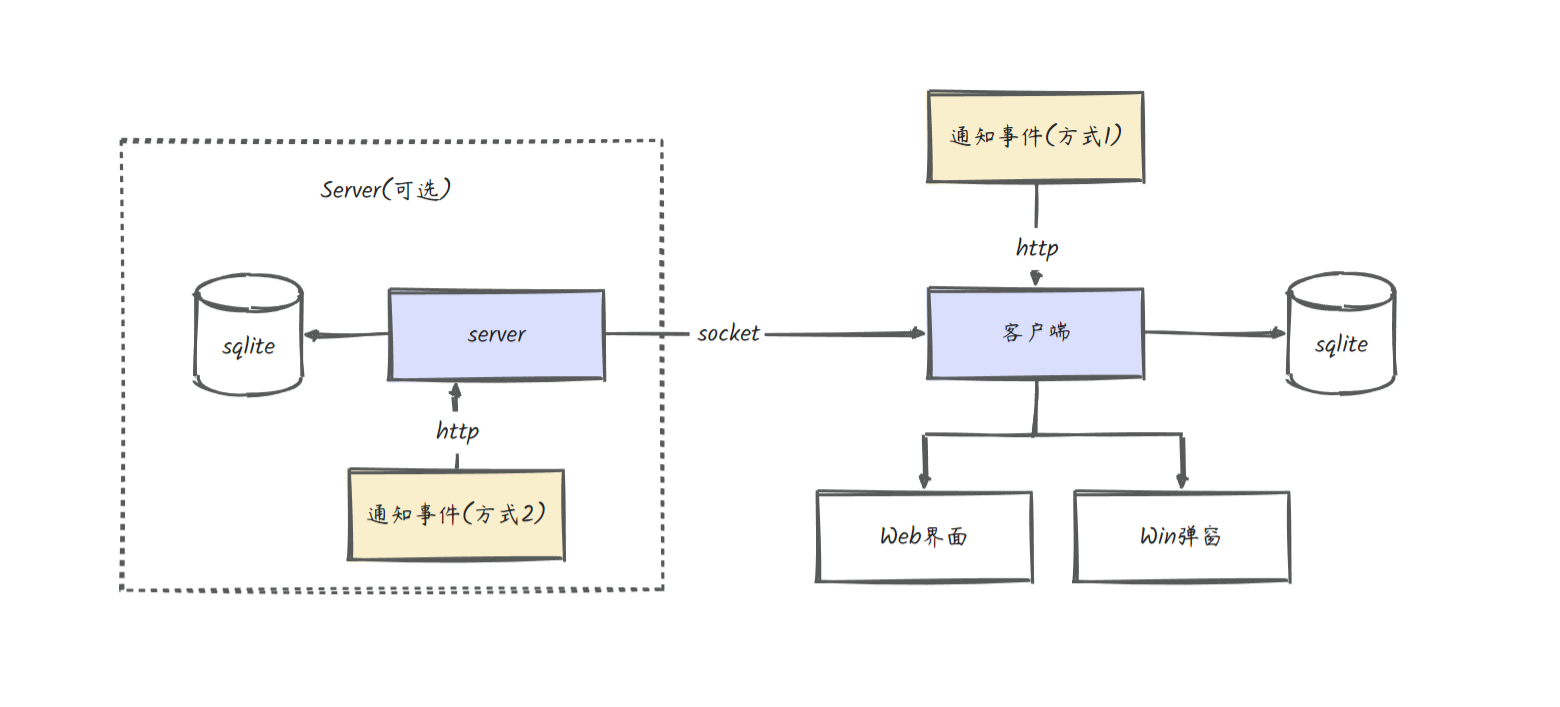
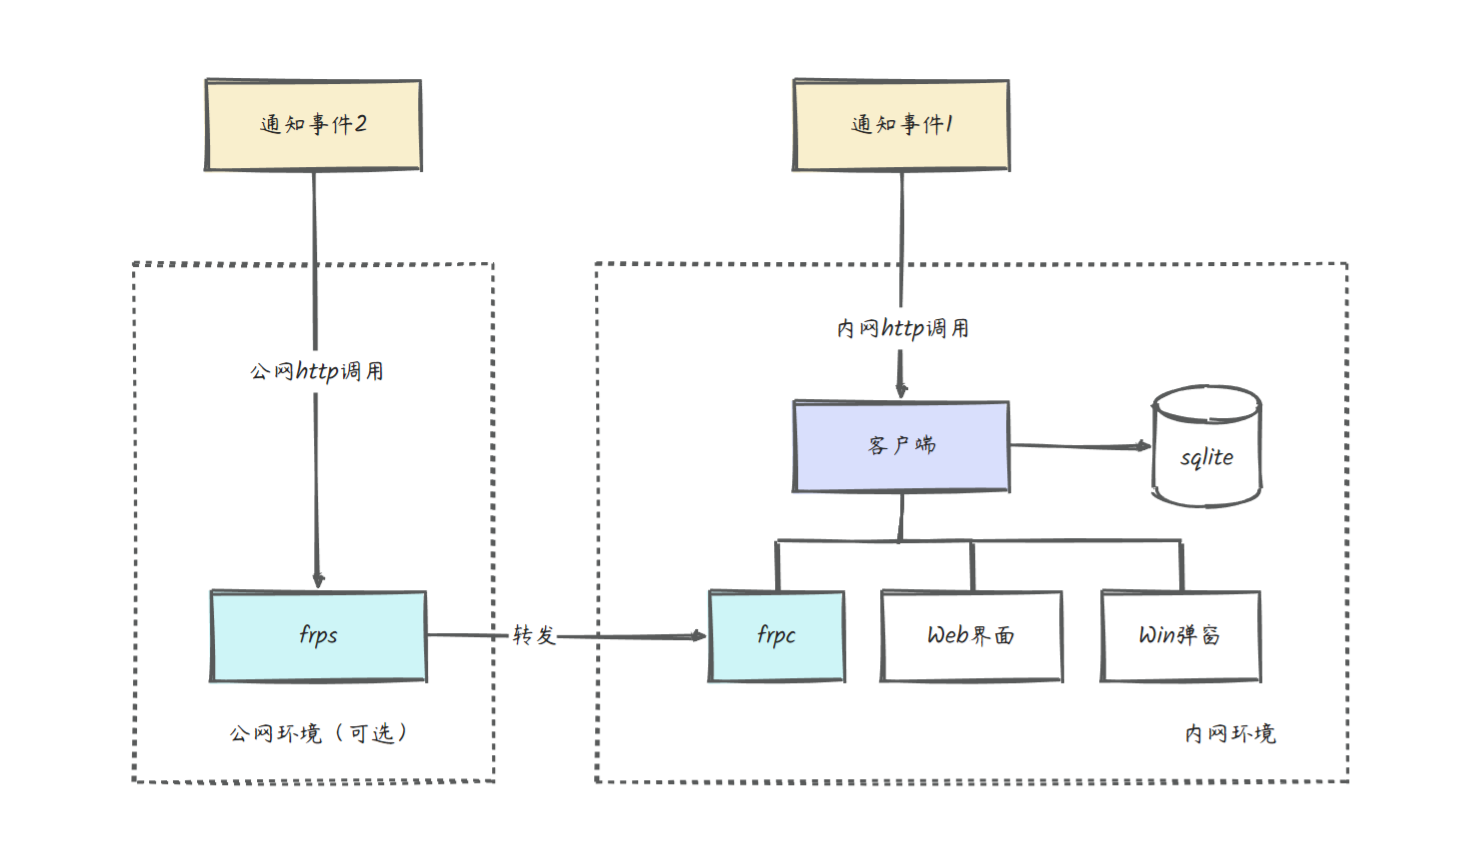
update readme

diff --git a/README.md b/README.md
@@ -25,15 +25,17 @@
 - [x] 开机启动
 - [x] 托盘控制
 - [x] 端口配置
+- [x] frp内网穿透集成
+- [x] 公网调用
 
-Future：
-- [ ] Server端
 
 ## 架构
 
 ![](images/jiagou.png)
 
-其中server部分还未开发完成
+- 内网环境下，局域网内可通过内网ip+端口调用，如`http://192.168.124.11:19000`
+- 公网环境可选择开启（默认关闭），配置开启后公网内可通过`frps`所在服务器公网ip+映射端口调用，如`http://123.123.1.2:19001`，此时请求经过公网服务器的frps服务转发给本机的frpc，frpc再将请求转发给本地web服务从而触发消息通知。详情查看[开启frp内网穿透](#开启frp内网穿透)
+
 
 ## 使用
 
@@ -73,4 +75,54 @@ Future：
   ![](images/demo1.png)
 
 
+## 开启frp内网穿透
 
+开启frp需要有一台带公网ip的服务器，配置并开启后可实现公网调用接口发送通知。
+
+#### 服务端配置
+
+1. 下载`frps`，选择对应服务器版本即可。[下载地址](https://github.com/fatedier/frp/releases/tag/v0.51.3)
+2. 修改`frps.ini`配置文件，配置参考：
+
+- frps.ini
+```ini
+[common]
+bind_port = 7000
+token = httpwinnotice123456
+```
+3. 启动服务端：
+
+```bash
+chmod +x ./frps
+./frps -c frps.ini
+```
+
+#### 客户端配置
+
+客户端内已集成了`frp`内网穿透功能（内置版本为`frpc-v0.51.3`），开启步骤如下：
+1. 右击托盘图标选择`配置文件`，修改配置文件内`frp`相关内容并保存。参考配置如下：
+    
+```yaml
+frp:
+    enable: 1
+    server_addr: 123.123.1.2
+    server_port: 7000
+    token: httpwinnotice123456
+    remote_port: 19001
+```
+
+配置的各项解释如下：
+
+- enable: 1-开启frp，0-关闭frp
+- server_addr: 部署frps服务器的公网ip
+- server_port: frps服务端口号
+- token: 与服务器端配置token一致，建议将默认值修改
+- remote_port: 转发的远端端口号
+
+注意服务器防火墙放开对应的端口号，以上示例配置在公网调用时使用`http://123.123.1.2:19001/api/toast`
+
+配置好后重启程序即可
+
+#### 测试
+
+浏览器打开`http://123.123.1.2:19001/api/toast?msg=哈喽` 如果windows通知出现证明开启成功（ip和端口号替换为自己的）
